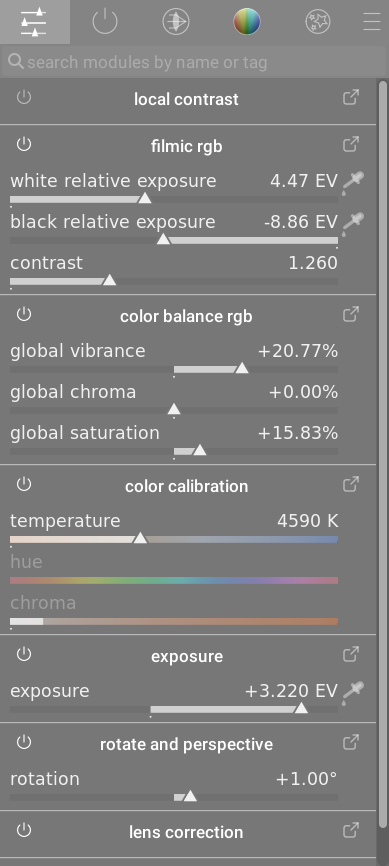
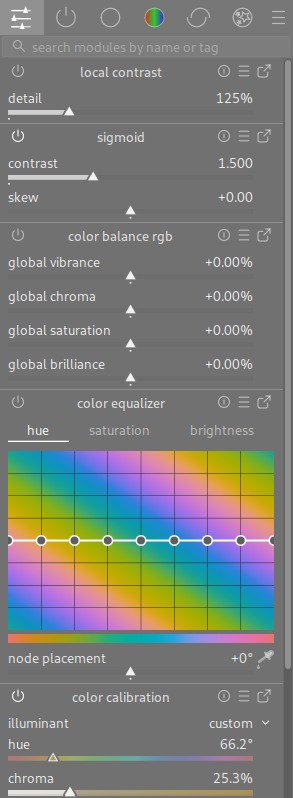
Update the quick access panel docs

diff --git a/content/darkroom/organization/quick-access-panel.md b/content/darkroom/organization/quick-access-panel.md
@@ -10,12 +10,21 @@ The quick access panel allows you to access widgets from a number of processing 
 
 ![quick-access-panel](./quick-access-panel/quick-access-panel.png#w33)
 
-You can add new widgets to the panel by 
 
-- right-clicking on the "hamburger" icon at the top-left of the panel
-- using the [manage module layouts](./manage-module-layouts.md) screen
-- Ctrl+clicking on a widget in a processing module while in [visual shortcut mapping mode](../../preferences-settings/shortcuts.md#visual-shortcut-mapping)
+The initial set of modules (and widgets) in the panel is determined by the _auto-apply pixel workflow defaults_ setting in [processing preferences](../../preferences-settings/processing.md).
 
-Click on the icon to the right of the module name to open the full version of that module. Click on the icon to the left of the module name to enable/disable the module.
+You can add or remove widgets in the panel by: 
+
+- right-clicking on the "hamburger" icon at the top-left of the panel.
+- right-clicking on the module name.
+- using the [manage module layouts](./manage-module-layouts.md) screen.
+- Ctrl+clicking on a widget in a processing module while in [visual shortcut mapping mode](../../preferences-settings/shortcuts.md#visual-shortcut-mapping).
+
+Click on the icon to the left of the module name to enable/disable the module.
+
+Icons to the right of the module name can be used to:
+* ![reset icon](./quick-access-panel/reset.png#icon) reset the state of the module back to its original condition.
+* ![presets icon](./quick-access-panel/presets.png#icon) open the [presets](../processing-modules/presets.md) menu of the module.
+* ![full version icon](./quick-access-panel/full-version.png#icon) open the full version of the module. 
 
 If any module has [multiple instances](../processing-modules/multiple-instances.md) enabled you will no longer be able to manage that module's widgets through the quick access panel and will have to use the full module interface.
